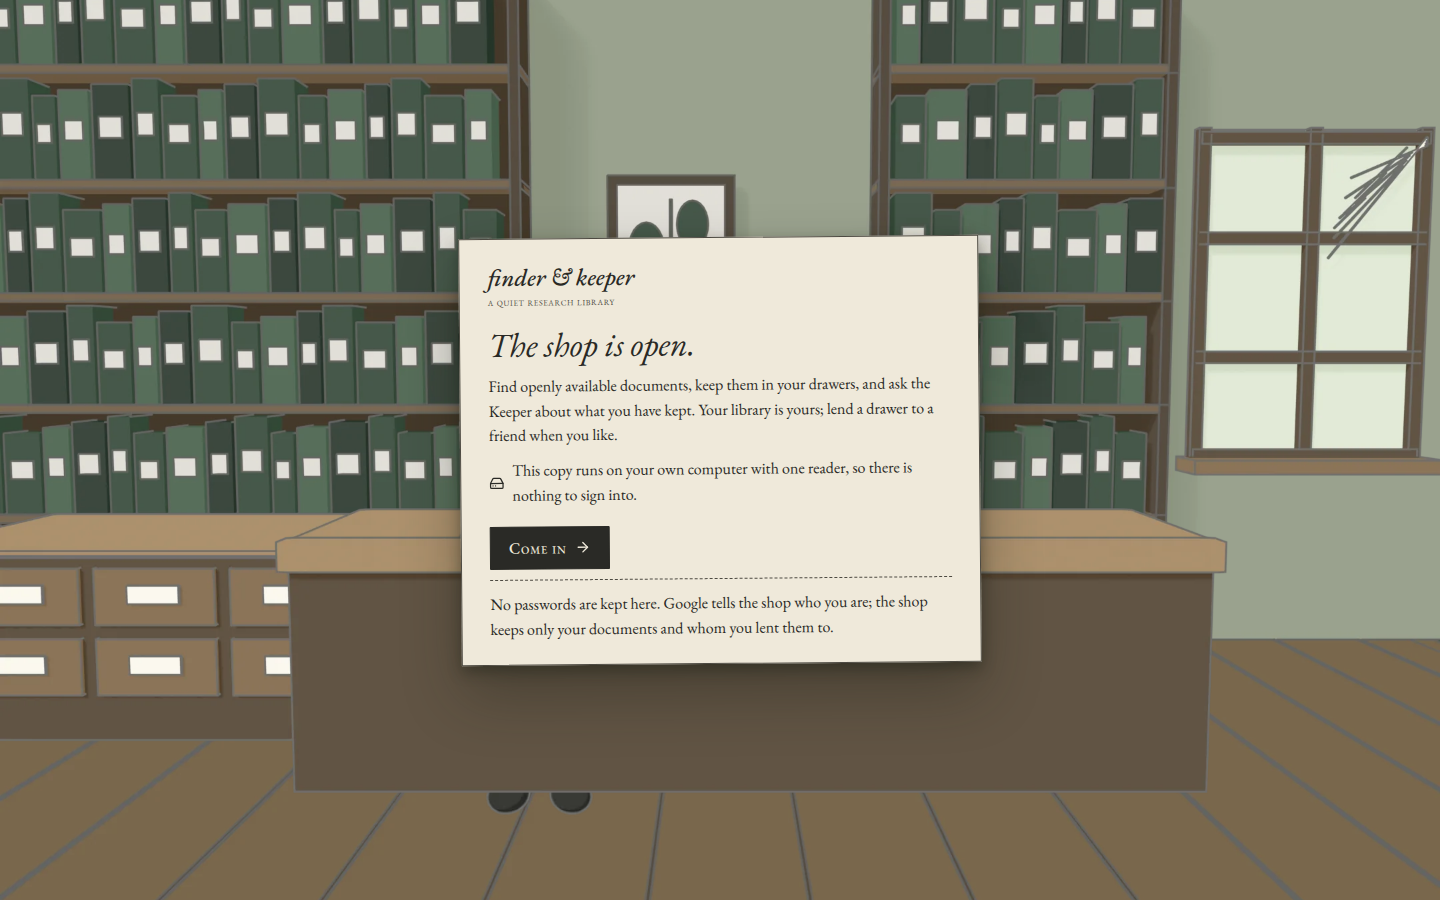
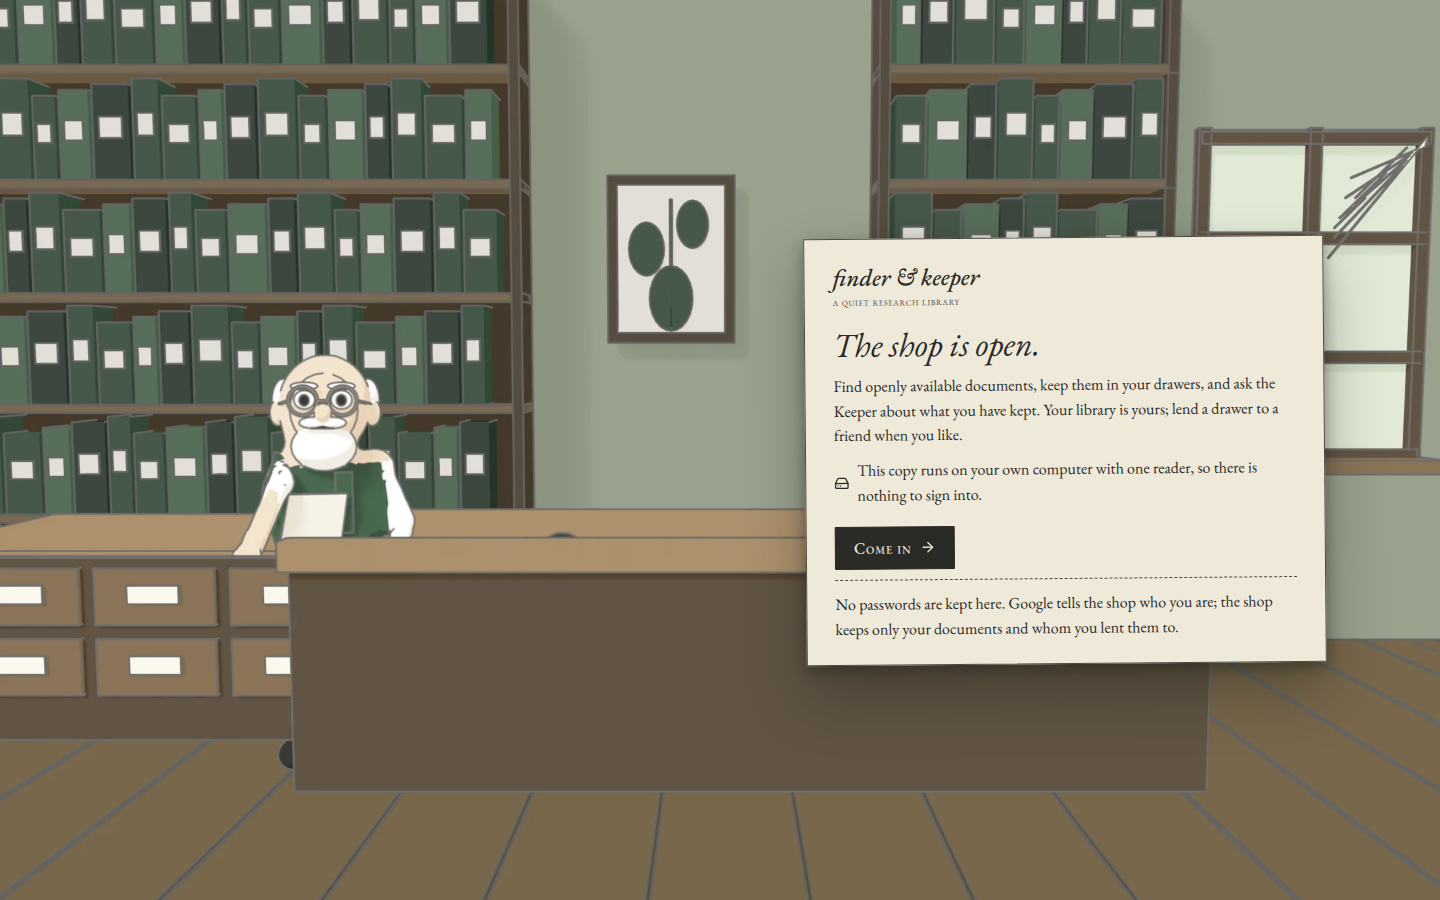
The lent-shelf route, and the Keeper beside the shop door

Changed region(s): [[0.1562, 0.2489, 0.9375, 0.7778], [0.3438, 0.8711, 0.4062, 0.9022], [0.1875, 0.8089, 0.2188, 0.8711]]

diff --git a/components/sign-in.module.css b/components/sign-in.module.css
@@ -1,8 +1,8 @@
-.door { --cloth: #35503a; --sheet: #efe9da; --ink: #2a2a26; --ink-soft: #4d4a42; --academic: var(--font-academic), 'EB Garamond', Garamond, serif; position: relative; min-height: 100dvh; overflow: hidden; background: var(--cloth); color: var(--ink); font-family: var(--academic); display: grid; place-items: center; padding: 24px; }
+.door { --cloth: #35503a; --sheet: #efe9da; --ink: #2a2a26; --ink-soft: #4d4a42; --academic: var(--font-academic), 'EB Garamond', Garamond, serif; position: relative; min-height: 100dvh; overflow: hidden; background: var(--cloth); color: var(--ink); font-family: var(--academic); display: grid; place-items: center end; padding: 24px 8vw 24px 24px; }
 .room { position: absolute; inset: 0; }
 .room img { position: absolute; left: 50%; top: 50%; width: max(100%, 150dvh); height: auto; transform: translate(-50%, -50%); user-select: none; }
 .back { filter: saturate(.85) brightness(.9); }
-.keeper { width: auto !important; height: 68% !important; left: 50% !important; top: 58% !important; }
+.keeper { width: auto !important; height: 62% !important; left: 34% !important; top: 56% !important; }
 .card { position: relative; width: min(520px, 100%); padding: 26px 28px 22px; background: var(--sheet); border: 1px solid var(--ink-soft); box-shadow: 0 6px 14px #1a1f1566, 0 30px 60px #1a1f1555; transform: rotate(-.5deg); }
 .sign { display: inline-block; margin-bottom: 18px; font: italic 500 24px/1 var(--academic); color: var(--ink); text-decoration: none; }
 .sign small { display: block; margin-top: 5px; font: 400 12px/1.2 var(--academic); font-variant-caps: small-caps; letter-spacing: .05em; font-style: normal; color: var(--ink-soft); }
@@ -14,4 +14,4 @@
 .enter:disabled { opacity: .6; cursor: default; }
 .error { margin-top: 12px; padding: 10px 12px; border: 1px dashed var(--ink-soft); font: 400 14px/1.5 var(--academic); }
 .footnote { margin-top: 18px; padding-top: 12px; border-top: 1px dashed var(--ink-soft); font: italic 400 13px/1.5 var(--academic); color: var(--ink-soft); }
-@media (max-width: 760px) { .card { padding: 20px 18px 18px; } .card h1 { font-size: 28px; } }
+@media (max-width: 900px) { .door { place-items: end center; padding: 24px 16px; } .keeper { left: 50% !important; top: 34% !important; height: 46% !important; } .card { padding: 20px 18px 18px; } .card h1 { font-size: 28px; } }
